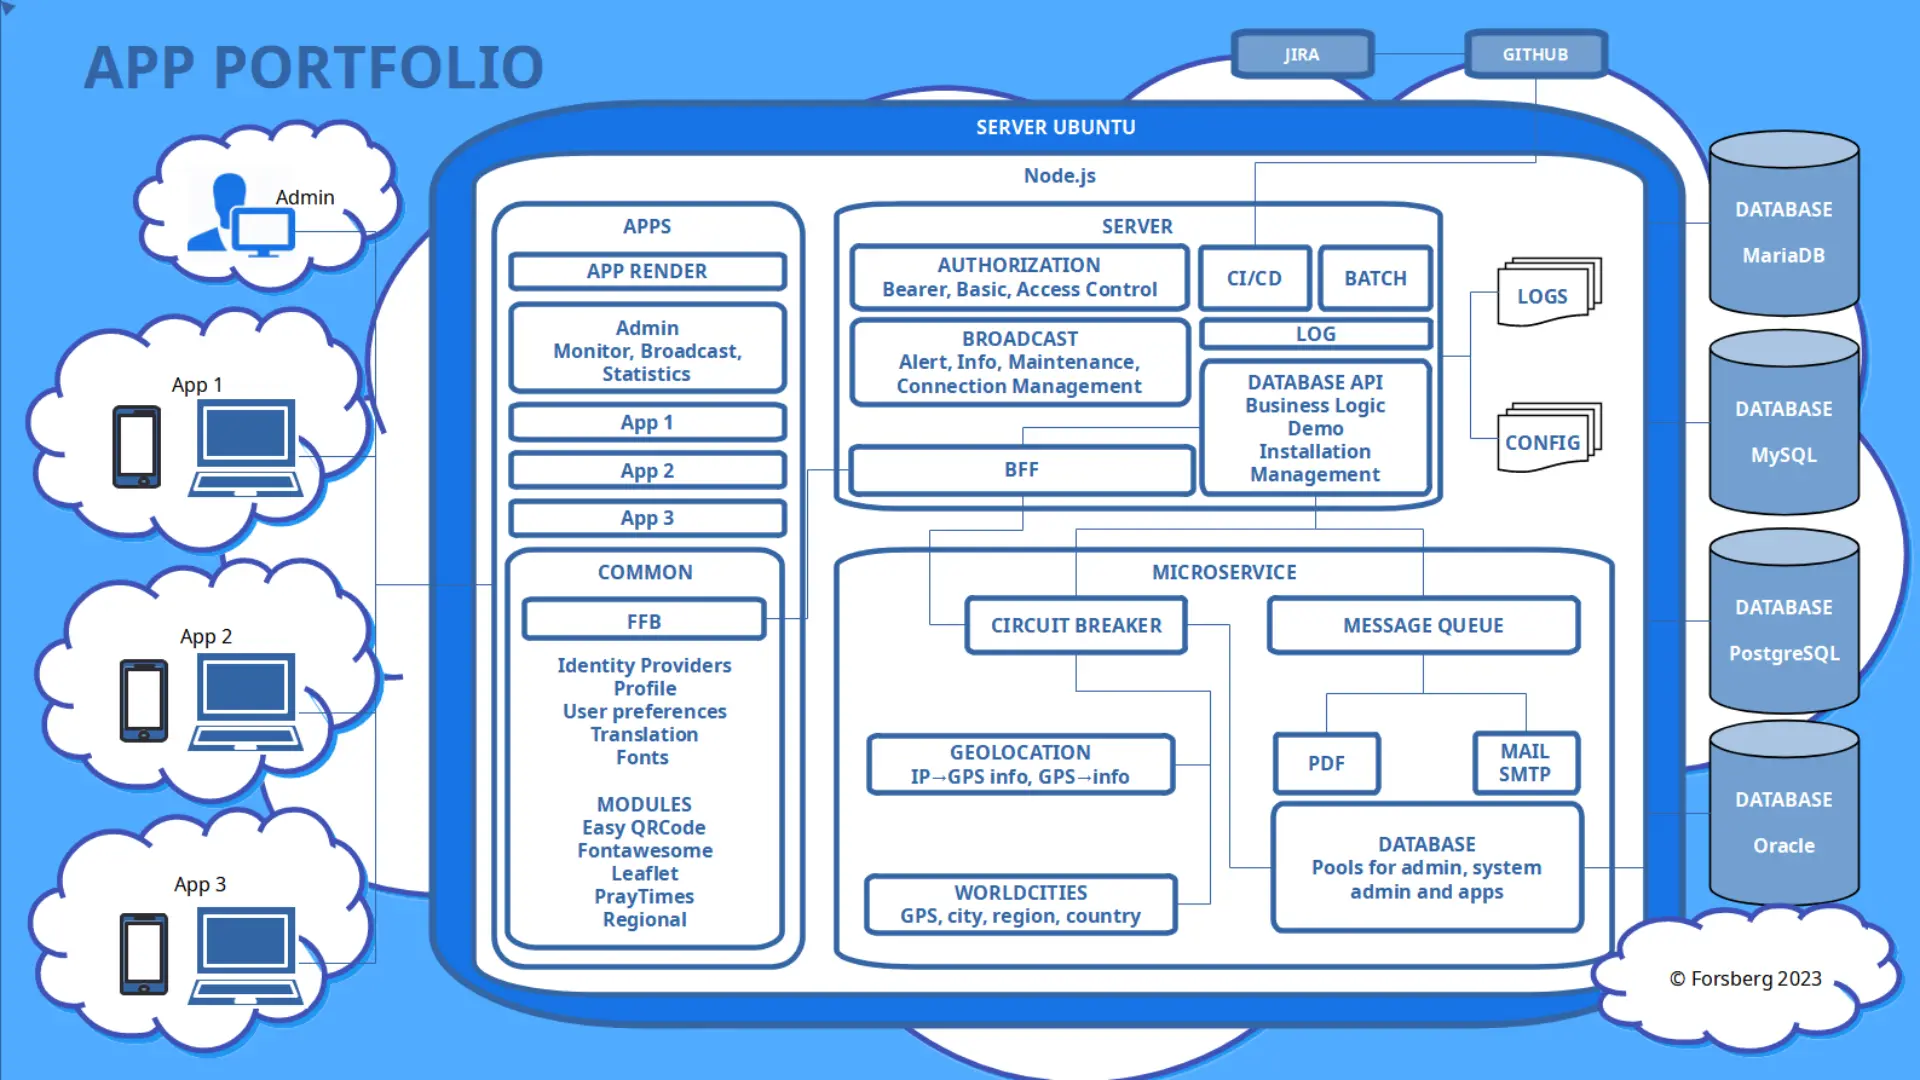
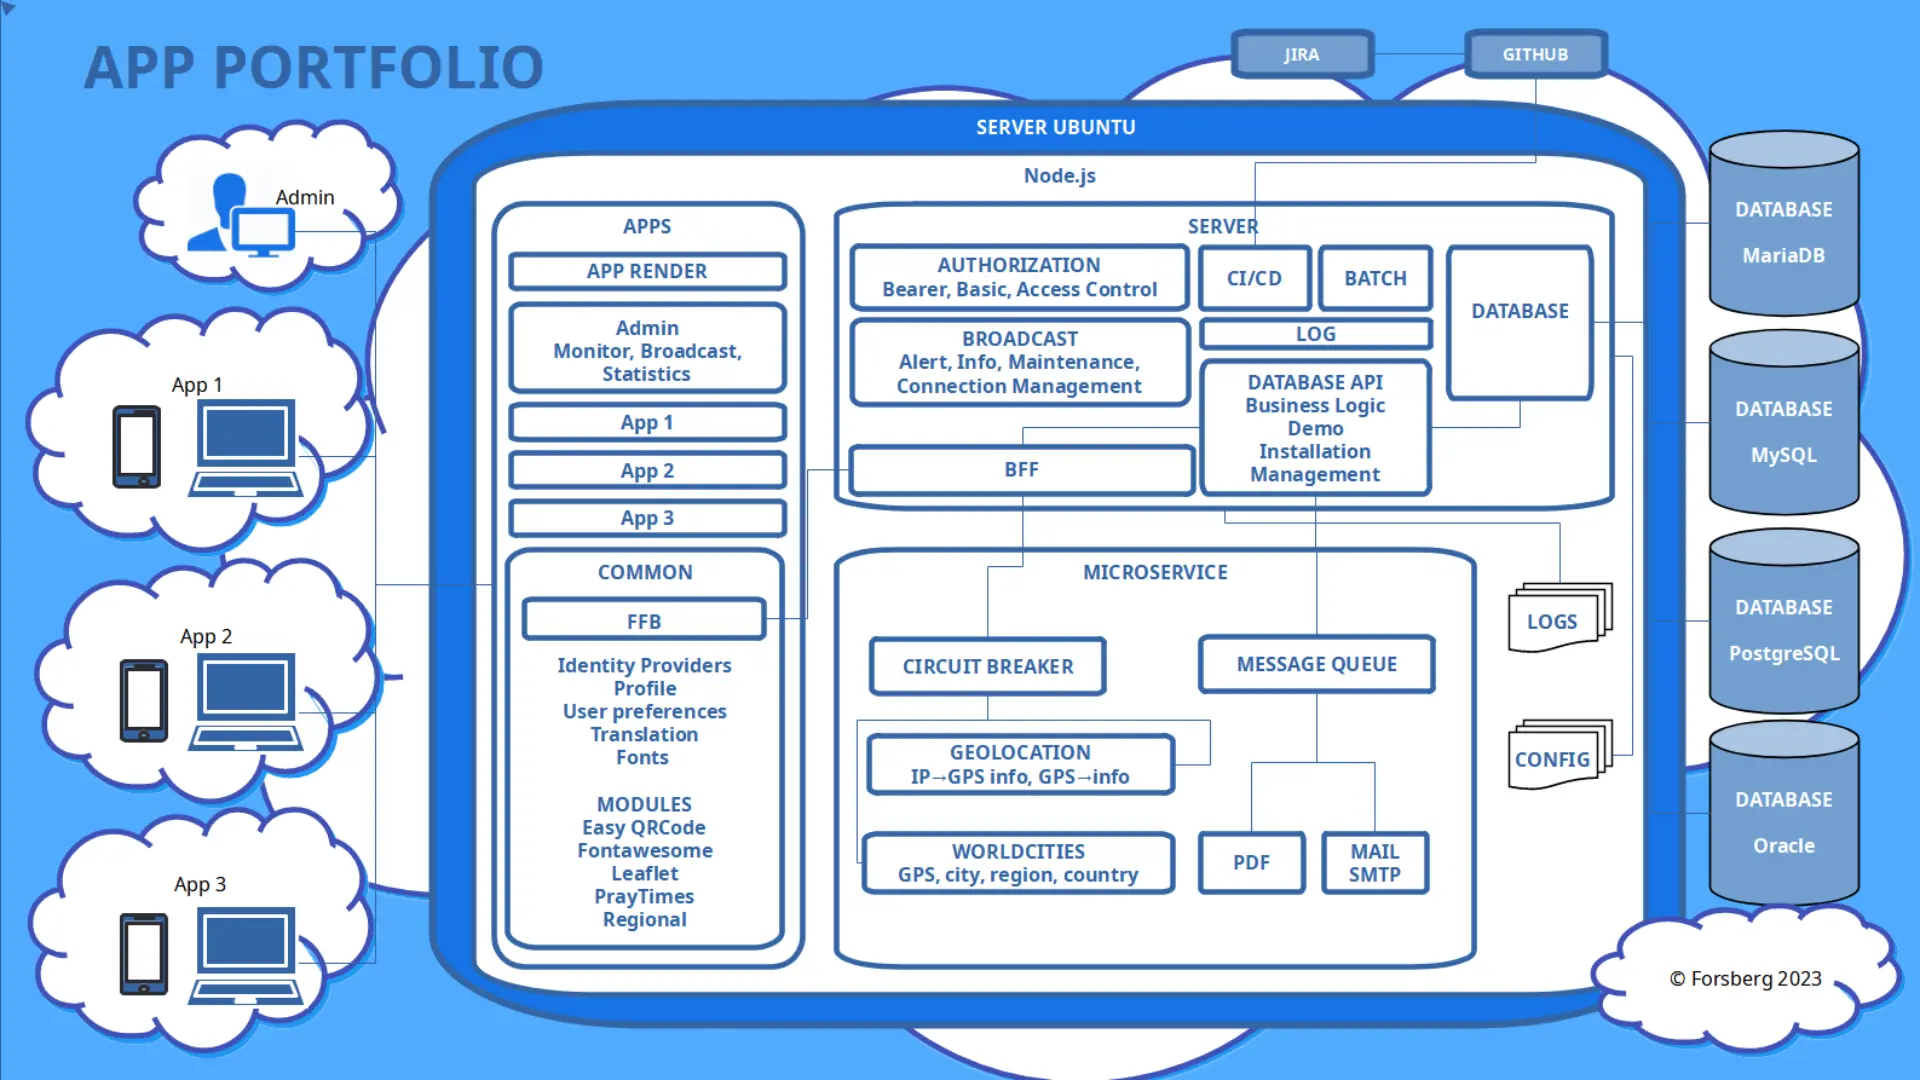
APB-482 updates documentation about microservices and updates diagram

diff --git a/apps/app1/src/info/about.html b/apps/app1/src/info/about.html
@@ -6,17 +6,8 @@
 	With most necessary technology configured to get started and with less
 	third party libraries and module dependencies for performance and better maintainability
 	with code you have control over.
-	Microservice REST API architecture with optional monitoring of each microservice activity.
-	Services included are authentication, database, forms, report, geolocation, log, mail
-	and worldcities. 
-	These services are based on ideas from 
-		- Angular (UI)
-		- Vue (UI)
-		- React (JSX, server component creation, analysis of eventlistener usage, debug and runtime execution) 
-		- existing log monitor and security solutions using SHA256, Bcrypt, json webtoken, 
-		  Content-Security-Policy, access control of IP and suspicious activity
-		- Oracle Forms and Reports and Oracle Apex.
-
+	Microservice architecture using circuitbreaker and message queue.
+	Services included are geolocation, mail, PDF and worldcities. 
 	Runs in Node.js using Express framework.
 
 	Apps are component structured and server-side rendered with database data population and single page apps.
@@ -78,9 +69,8 @@
 	- Javascript ECMAScript modules and ES6+ Javascript using Express in Node.js. Thirdparty javascript modules 
 	  should be converted from CommonJS to ECMScript modules if necessary.
 	- report PDF with QR codes pixel perfect design using CSS pt font size measurement and full unicode support
-	- forms server with client component server generation
+	- apps created using server side rendering
 	- database and file logging
-	- apps are component server generated with database data population
 	- microservice arquitecture
 	- MariaDB, MySQL, PostgreSQL and Oracle databases supported deployed on Oracle Cloud with dynamic pool arquitecture
 	  and sql logging stratified per app

diff --git a/README.md b/README.md
@@ -4,17 +4,8 @@
 	With most necessary technology configured to get started and with less
 	third party libraries and module dependencies for performance and better maintainability
 	with code you have control over.
-	Microservice REST API architecture with optional monitoring of each microservice activity.
-	Services included are authentication, database, forms, report, geolocation, log, mail
-	and worldcities. 
-	These services are based on ideas from 
-		- Angular (UI)
-		- Vue (UI)
-		- React (JSX, server component creation, analysis of eventlistener usage, debug and runtime execution) 
-	    - existing log monitor and security solutions using SHA256, Bcrypt, json webtoken, 
-		  Content-Security-Policy, access control of IP and suspicious activity
-		- Oracle Forms and Reports and Oracle Apex.
-
+	Microservice architecture using circuitbreaker and message queue.
+	Services included are geolocation, mail, PDF and worldcities. 
 	Runs in Node.js using Express framework.
 
 	Apps are component structured and server-side rendered with database data popluation.
@@ -73,9 +64,8 @@
 	- Javascript ECMAScript modules and ES6+ Javascript using Express in Node.js. Thirdparty javascript modules 
 	  should be converted from CommonJS to ECMScript modules if necessary.
 	- report PDF with QR codes pixel perfect design using css pt font size measurement and full unicode support
-	- forms server with client component server generation
+	- apps created using server side rendering
 	- database and file logging
-	- apps are component server generated with database data population
 	- microservice arquitecture
 	- MariaDB, MySQL, PostgreSQL and Oracle databases supported deployed on Oracle Cloud with dynamic pool arquitecture
 	  and sql logging stratified per app
